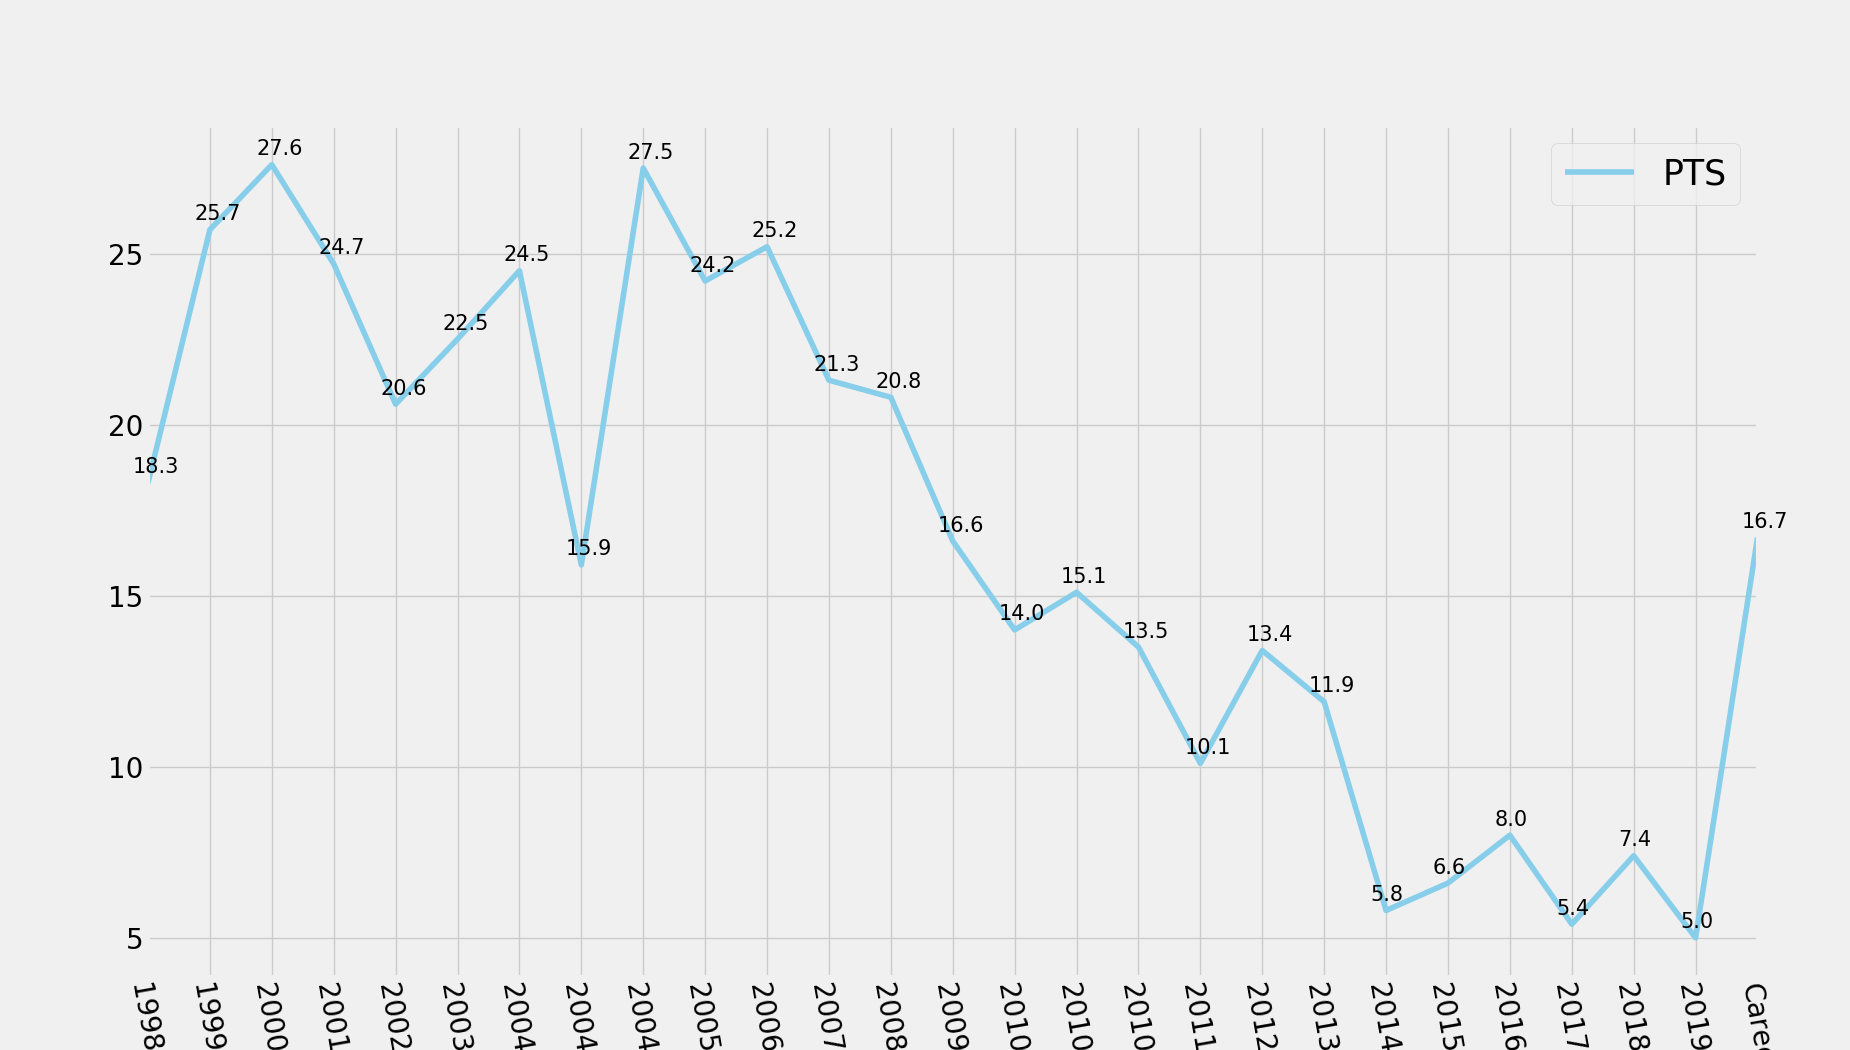
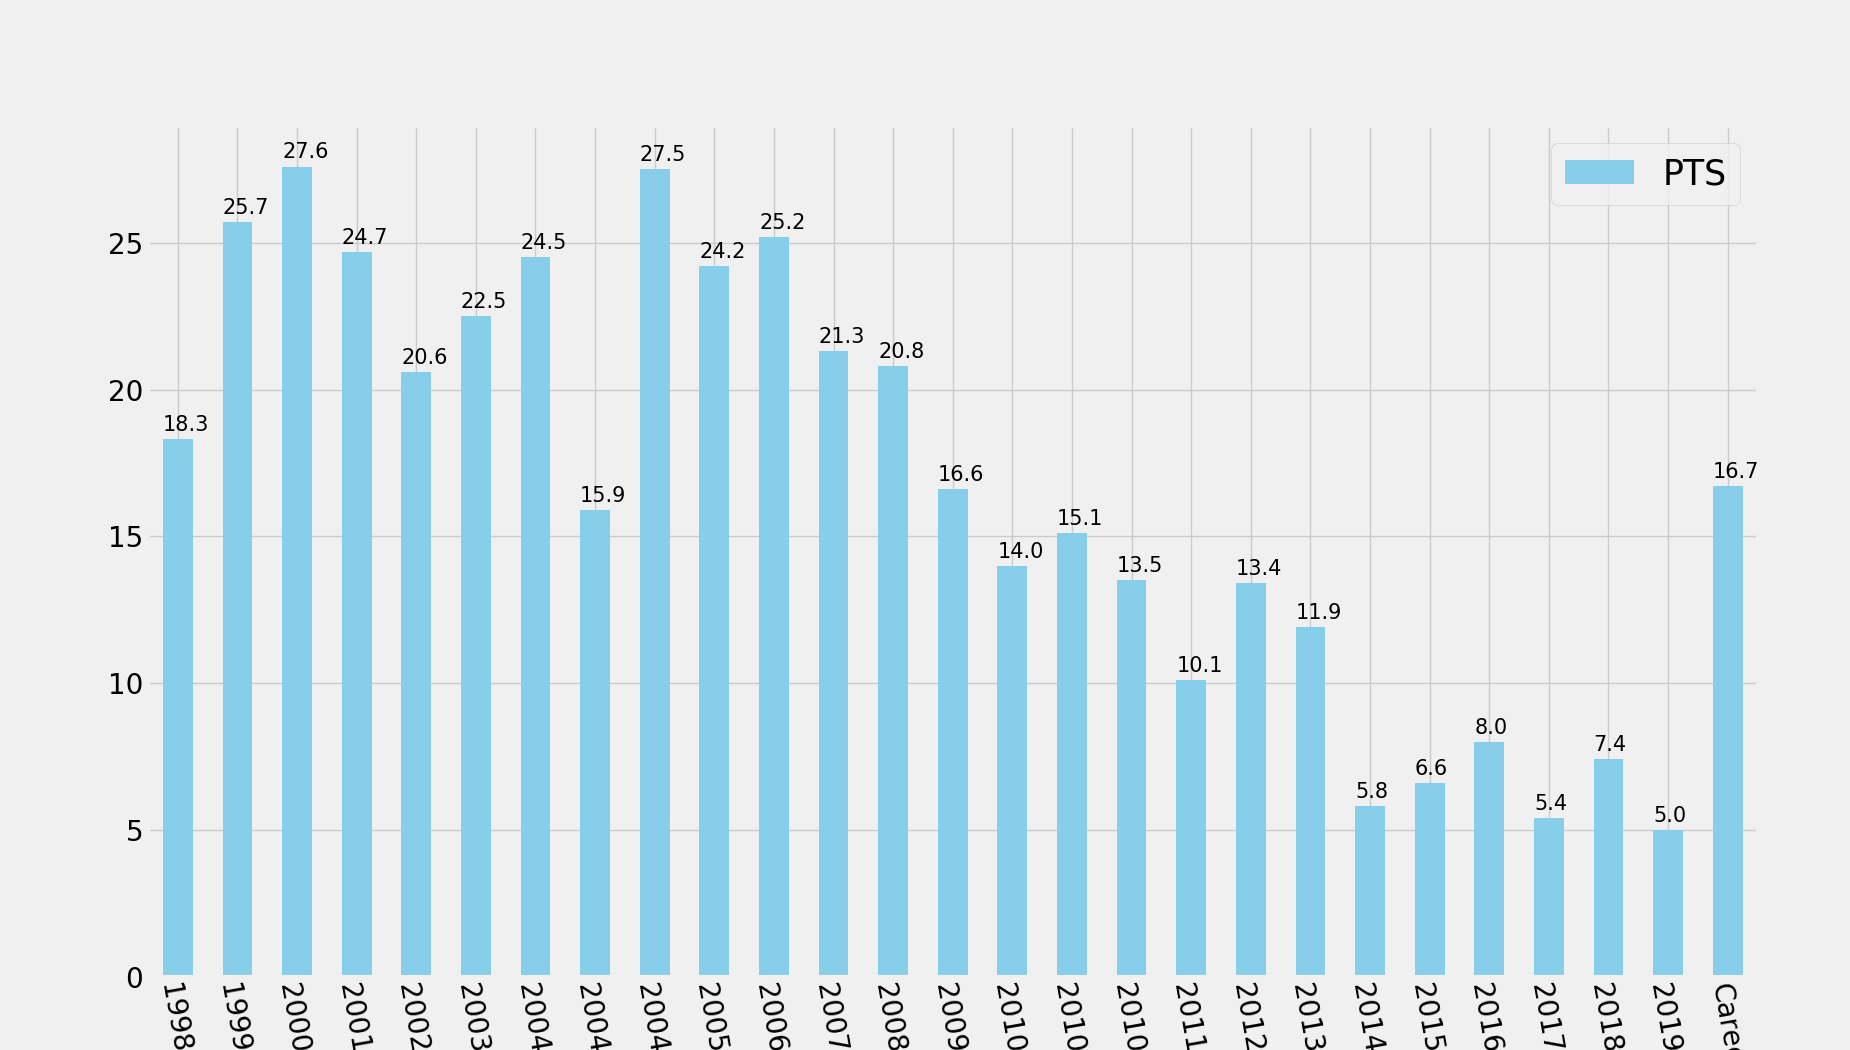
<fix>README updated

Changed region(s): [[0.0616, 0.1219, 0.9551, 1.0], [0.8319, 0.1524, 0.8935, 0.1829]]

diff --git a/statpop.py b/statpop.py
@@ -49,5 +49,5 @@ if __name__ == "__main__":
                     "per_game",
                     "PTS",
                     "skyblue",
-                    "line")
+                    "bar")
     statpop.draw()

diff --git a/README.md b/README.md
@@ -5,7 +5,7 @@
 
 ## FUNCTION
 #### statpop.py
-* 以 `url`, `stat_category`, `stat_column`, `color` 為參數爬取並繪製球員數據圖。
+* 以 `url`, `stat_category`, `stat_column`, `color`, `kind` 為參數爬取並繪製球員數據圖。
 * `stat_category` 目前僅支援 `per_game` 當參數。
 
 ## Requirements
@@ -17,6 +17,7 @@ python 3
 2. 輸入 `per_game` 為參數。
 3. 輸入想要繪製的數據(以得分`PTS`為例)。
 4. 輸入圖表顏色。
+5. 輸入圖表樣式。
 
 如下:
 ```
@@ -24,7 +25,8 @@ if __name__ == "__main__":
     statpop = StatPop("https://www.basketball-reference.com/players/c/cartevi01.html",
                     "per_game",
                     "PTS",
-                    "skyblue")
+                    "skyblue",
+                    "bar",)
     statpop.draw()
 ```
 即可完成繪製並儲存。
